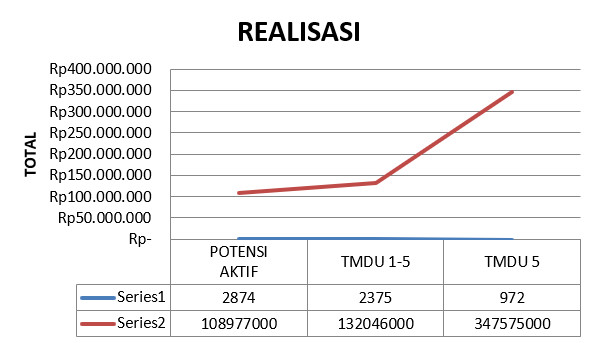
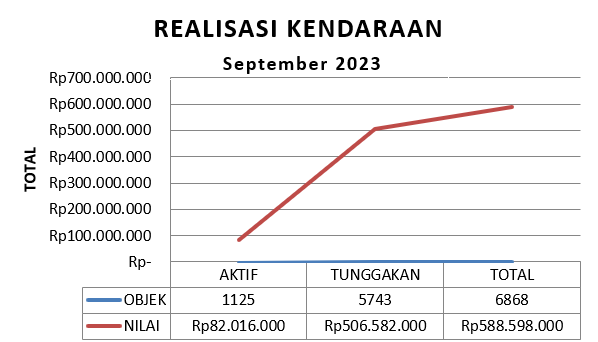
update data

Changed region(s): [[0.0302, 0.1754, 0.995, 0.9942], [0.2412, 0.0585, 0.7538, 0.117], [0.3618, 0.1462, 0.6633, 0.2339]]

diff --git a/index.html b/index.html
@@ -121,7 +121,7 @@
                       </div>
                     </div>
                     <div class="slider_item-imgbox">
-                      <img height="390px" src="images/BPKB-STNK.jpg" alt="" />
+                      <img height="345px" src="images/BPKB-STNK.jpg" alt="" />
                     </div>
                   </div>
                 </div>
@@ -196,10 +196,8 @@
                   QRIS (Quick Response Code Indonesian Standard)
                 </h4>
                 <p>
-                  Lorem ipsum dolor sit amet, consectetur adipiscing elit, sed
-                  do eiusmod tempor incididunt ut labore et dolore magna aliqua.
-                  Ut enim ad minim veniam, quis nostrud exercitation ullamco
-                  laboris nisi ut aliquip ex ea commodo
+                  QRIS adalah standar kode QR nasional yang diluncurkan oleh Bank Indonesia dan 
+                  Asosiasi Sistem Pembayaran Indonesia untuk mengintegrasikan seluruh metode pembayaran nontunai di Indonesia.
                 </p>
               </div>
             </div>
@@ -283,9 +281,9 @@
           </h2>
           <p>
             grafik disamping adalah data realisasi per 31 september 2023. 
-            grafik ini menunjukkan banyaknya potensi aktif berada di nilai 100jt skian dengan objek 300 kendaraan. 
-            untuk tunggakan 1-5 memiliki nilai 108jtan dengan objek 2375 kendaraan. 
-            sedangkan untuk tunggakan diatas 5 tahun memiliki nilai 350jt dengan objek 972 kendaraan. 
+            grafik ini menunjukkan banyaknya potensi aktif berada di nilai 82.016.000 dengan objek 1125 kendaraan. 
+            untuk tunggakan memiliki nilai Rp. 506.582.000 dengan objek 5743 kendaraan. 
+            dengan nilai total Rp.588.000 dengan total objek 6868. 
             grafik ini dibuat berdasarkan data yang didapat bulan september sebelum aplikasi JR monas dirancang dan dipasarkan kepada user.
           </p>
           <div>
@@ -323,10 +321,10 @@
       </div>
     </section>
     <!-- end feature section -->
-    
+    <br> <br> <br> <br> <br>
     <section class="location">
       <div class="content">
-          <h1 class="title">Lokasi Kami </h1>
+          <h2 class="title">Lokasi </h2>
           <iframe src="https://www.google.com/maps/embed?pb=!1m18!1m12!1m3!1d7890.164023313311!2d116.08865429078537!3d-8.588113557251901!2m3!1f0!2f0!3f0!3m2!1i1024!2i768!4f13.1!3m3!1m2!1s0x2dcdc080129c8d61%3A0x6757f5f76cc37737!2sPT.%20Jasa%20Raharja%20(Persero)%20Cabang%20Nusa%20Tenggara%20Barat!5e0!3m2!1sid!2sid!4v1697102200024!5m2!1sid!2sid" width="1200" height="600" style="border:0;" allowfullscreen="" loading="lazy" referrerpolicy="no-referrer-when-downgrade"></iframe>
       </div>
   </section>

diff --git a/css/style.css b/css/style.css
@@ -653,7 +653,7 @@ a:focus {
   width: 100%;
   text-align: center;
 }
-.location h1{
+.location h2{
   font-family: Arial, Helvetica, sans-serif;
   text-align: center;
   color: #000000;
